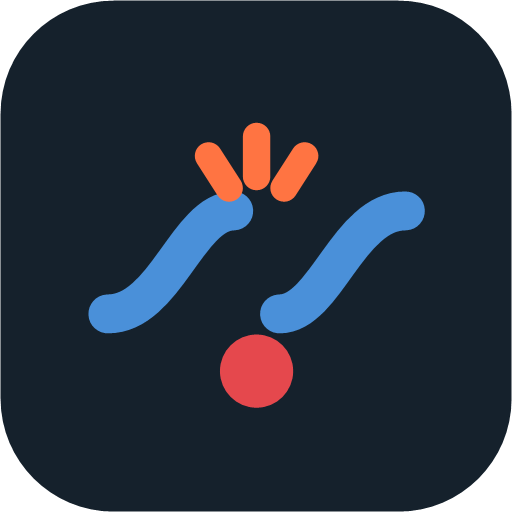
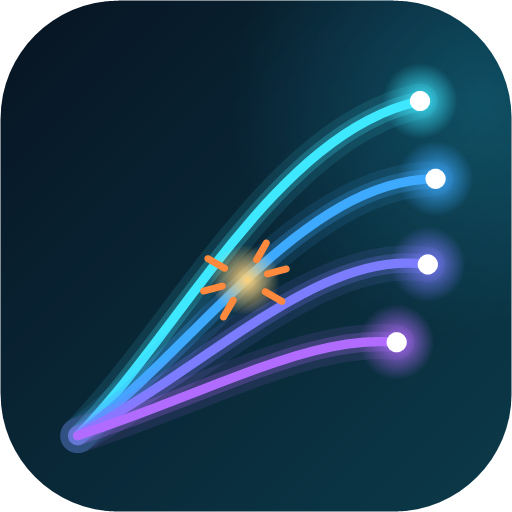
Icone novo de fibra optica

diff --git a/index.html b/index.html
@@ -1,4 +1,4 @@
-<!doctype html><html lang="pt-BR"><head><meta charset="utf-8"><meta name="viewport" content="width=device-width,initial-scale=1,viewport-fit=cover"><link rel="manifest" href="manifest.webmanifest"><meta name="theme-color" content="#15212C"><link rel="icon" type="image/png" sizes="192x192" href="icon-192.png"><link rel="apple-touch-icon" href="apple-touch-icon.png"><meta name="apple-mobile-web-app-capable" content="yes"><meta name="mobile-web-app-capable" content="yes"><meta name="apple-mobile-web-app-title" content="Rompimentos"><meta name="apple-mobile-web-app-status-bar-style" content="black-translucent"></head><body><title>Mapa de Rompimentos</title>
+<!doctype html><html lang="pt-BR"><head><meta charset="utf-8"><meta name="viewport" content="width=device-width,initial-scale=1,viewport-fit=cover"><link rel="manifest" href="manifest.webmanifest"><meta name="theme-color" content="#071423"><link rel="icon" type="image/png" sizes="192x192" href="icon-192.png?v=2"><link rel="apple-touch-icon" href="apple-touch-icon.png?v=2"><meta name="apple-mobile-web-app-capable" content="yes"><meta name="mobile-web-app-capable" content="yes"><meta name="apple-mobile-web-app-title" content="Rompimentos"><meta name="apple-mobile-web-app-status-bar-style" content="black-translucent"></head><body><title>Mapa de Rompimentos</title>
 <meta name="claude:viewport-fit-sides" content="cover">
 <link rel="preconnect" href="https://fonts.googleapis.com">
 <link rel="preconnect" href="https://fonts.gstatic.com" crossorigin>
@@ -301,11 +301,21 @@ details.adv[open] summary { margin-bottom: 8px; }
 
 <header class="top">
   <div class="brand">
-    <svg width="34" height="34" viewBox="0 0 34 34" aria-hidden="true">
-      <rect width="34" height="34" rx="8" fill="var(--ink)"/>
-      <path d="M5 21 C 9 21, 11 13, 15 13" stroke="var(--route)" stroke-width="3" fill="none" stroke-linecap="round"/>
-      <path d="M19 21 C 23 21, 25 13, 29 13" stroke="var(--route)" stroke-width="3" fill="none" stroke-linecap="round"/>
-      <path d="M17 8 L17 11 M13.5 9.5 L15 12 M20.5 9.5 L19 12" stroke="var(--accent)" stroke-width="2" stroke-linecap="round"/>
+    <svg width="36" height="36" viewBox="0 0 100 100" aria-hidden="true">
+      <defs>
+        <linearGradient id="lgFundo" x1="0" y1="0" x2="1" y2="1"><stop offset="0" stop-color="#071423"/><stop offset="1" stop-color="#0B3A4A"/></linearGradient>
+        <filter id="lgBrilho" x="-30%" y="-30%" width="160%" height="160%"><feGaussianBlur stdDeviation="2.2" result="b"/><feMerge><feMergeNode in="b"/><feMergeNode in="SourceGraphic"/></feMerge></filter>
+      </defs>
+      <rect width="100" height="100" rx="23" fill="url(#lgFundo)"/>
+      <g fill="none" stroke-linecap="round" stroke-width="3.2" filter="url(#lgBrilho)">
+        <path d="M15 85 C 36 61, 54 25, 82 20" stroke="#3EE8FF"/>
+        <path d="M15 85 C 39 64, 60 35, 85 35" stroke="#3DA9FF"/>
+        <path d="M15 85 C 42 67, 63 49, 84 52" stroke="#7C7CFF"/>
+        <path d="M15 85 C 43 72, 61 66, 78 67" stroke="#B26BFF"/>
+      </g>
+      <g fill="#fff" filter="url(#lgBrilho)"><circle cx="82" cy="20" r="3.4"/><circle cx="85" cy="35" r="3.4"/><circle cx="84" cy="52" r="3.4"/><circle cx="78" cy="67" r="3.4"/></g>
+      <circle cx="47" cy="55" r="5" fill="#FFB25C" filter="url(#lgBrilho)"/>
+      <path d="M47 45 V49 M47 61 V65 M37 55 H41 M53 55 H57 M40 48 L42.5 50.5 M54 48 L51.5 50.5" stroke="#FF8A3D" stroke-width="2.4" stroke-linecap="round"/>
     </svg>
     <div>
       <h1>Rompimentos</h1>
@@ -1962,7 +1972,7 @@ function setCriar(on) {
   $('#lgSenha').autocomplete = on ? 'new-password' : 'current-password';
 }
 // Versão do app: ao voltar para o app, confere se o site tem versão mais nova e oferece atualizar
-const APP_VERSAO = '2026-11-18d';
+const APP_VERSAO = '2026-11-18e';
 function checarVersao() {
   if (!navigator.onLine) return;
   fetch(location.pathname + '?versao=' + Date.now(), { cache: 'no-store' }).then(r => r.ok ? r.text() : '').then(t => {

diff --git a/sw.js b/sw.js
@@ -1,5 +1,5 @@
 // Rompimentos — service worker: deixa o app abrir e funcionar sem sinal.
-const APP = 'romp-app-v1';
+const APP = 'romp-app-v2';
 const TILES = 'romp-tiles-v1';
 const MAX_TILES = 2500;
 const SHELL = ['./', './index.html', './manifest.webmanifest', './icon-192.png', './icon-512.png', './apple-touch-icon.png'];
